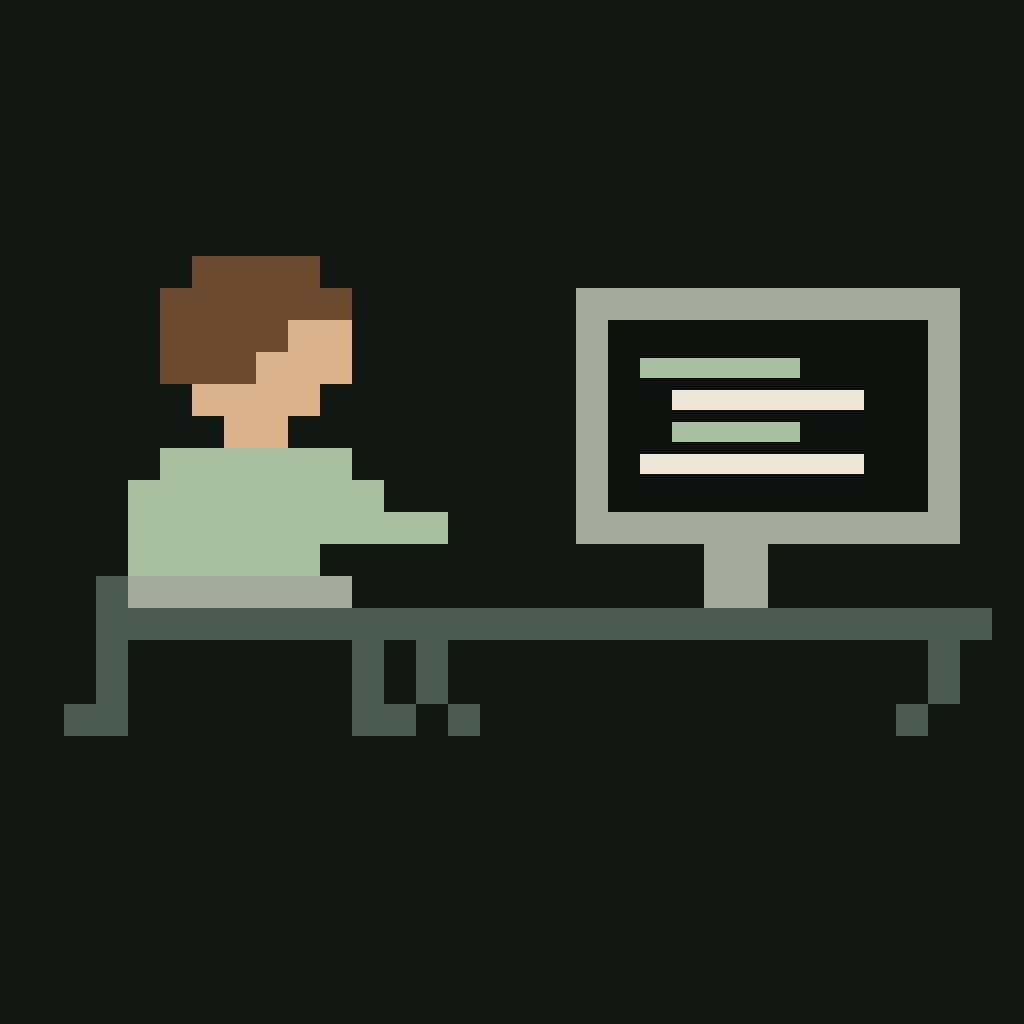
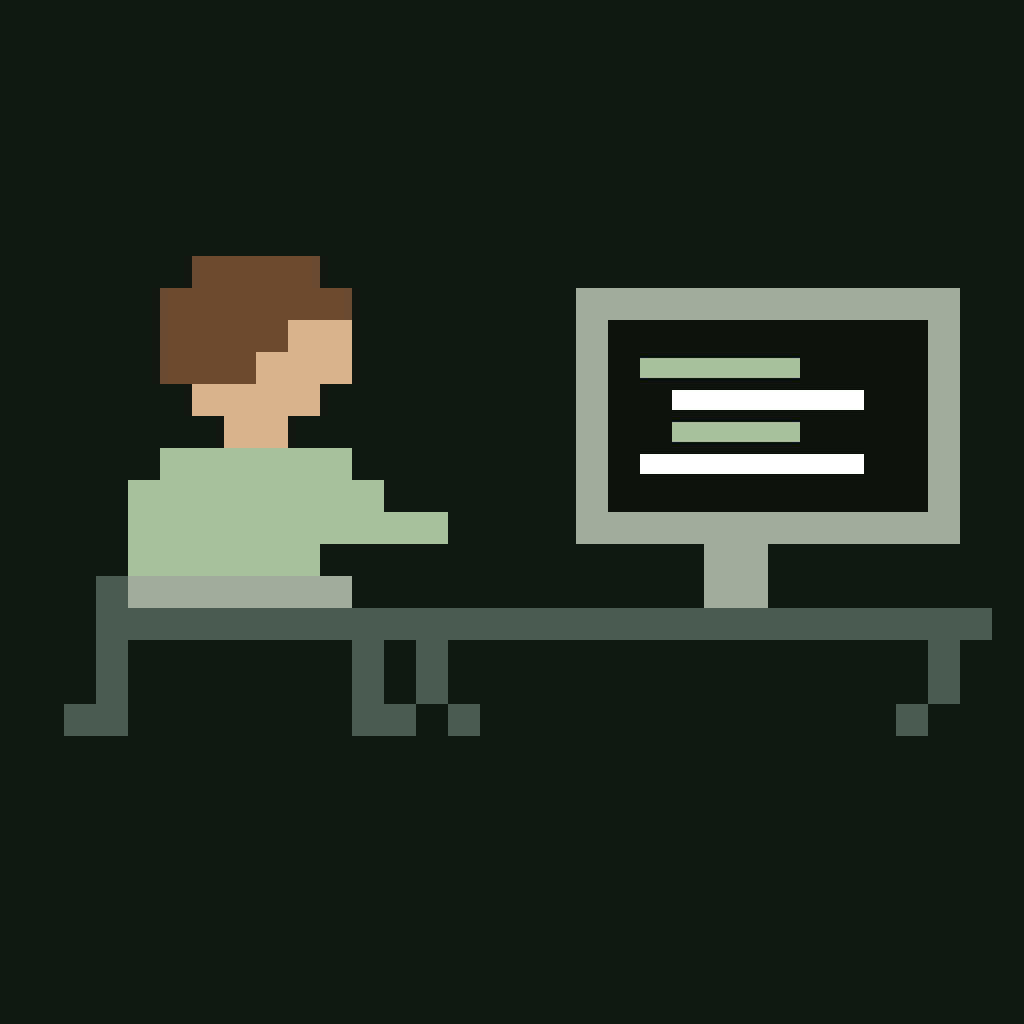
Swap cream for white
Light mode: white page and cards, soft neutral gray for chips and
borders, white text on sage buttons. Dark mode: white text instead of
cream. Same change in the badge, embed card, app icon, browser color and
the mobile app (theme, avatar tone, splash, regenerated icons). Sage
green stays as it is.

Claude-Session: https://claude.ai/code/session_01JmAZYzBPk9HgA47kEKZ3QW

Changed region(s): [[0.625, 0.4375, 0.8438, 0.4688], [0.6562, 0.375, 0.8438, 0.4062]]

diff --git a/src/lib/pixel-icon.ts b/src/lib/pixel-icon.ts
@@ -2,7 +2,7 @@
 // Apple touch icon). Must stay identical to src/app/icon.svg; the unit tests
 // check it.
 export const PIXEL_ICON_SVG =
-  '<svg xmlns="http://www.w3.org/2000/svg" viewBox="0 0 32 32" shape-rendering="crispEdges"><rect width="32" height="32" rx="6" fill="#121814"/><rect x="6" y="8" width="4" height="1" fill="#6b4a2f"/><rect x="5" y="9" width="6" height="1" fill="#6b4a2f"/><rect x="18" y="9" width="12" height="1" fill="#a3ab9d"/><rect x="5" y="10" width="4" height="1" fill="#6b4a2f"/><rect x="9" y="10" width="2" height="1" fill="#d9b38c"/><rect x="18" y="10" width="1" height="1" fill="#a3ab9d"/><rect x="19" y="10" width="10" height="1" fill="#0d120f"/><rect x="29" y="10" width="1" height="1" fill="#a3ab9d"/><rect x="5" y="11" width="3" height="1" fill="#6b4a2f"/><rect x="8" y="11" width="3" height="1" fill="#d9b38c"/><rect x="18" y="11" width="1" height="1" fill="#a3ab9d"/><rect x="19" y="11" width="10" height="1" fill="#0d120f"/><rect x="29" y="11" width="1" height="1" fill="#a3ab9d"/><rect x="6" y="12" width="4" height="1" fill="#d9b38c"/><rect x="18" y="12" width="1" height="1" fill="#a3ab9d"/><rect x="19" y="12" width="10" height="1" fill="#0d120f"/><rect x="29" y="12" width="1" height="1" fill="#a3ab9d"/><rect x="7" y="13" width="2" height="1" fill="#d9b38c"/><rect x="18" y="13" width="1" height="1" fill="#a3ab9d"/><rect x="19" y="13" width="10" height="1" fill="#0d120f"/><rect x="29" y="13" width="1" height="1" fill="#a3ab9d"/><rect x="5" y="14" width="6" height="1" fill="#a8c09e"/><rect x="18" y="14" width="1" height="1" fill="#a3ab9d"/><rect x="19" y="14" width="10" height="1" fill="#0d120f"/><rect x="29" y="14" width="1" height="1" fill="#a3ab9d"/><rect x="4" y="15" width="8" height="1" fill="#a8c09e"/><rect x="18" y="15" width="1" height="1" fill="#a3ab9d"/><rect x="19" y="15" width="10" height="1" fill="#0d120f"/><rect x="29" y="15" width="1" height="1" fill="#a3ab9d"/><rect x="4" y="16" width="10" height="1" fill="#a8c09e"/><rect x="18" y="16" width="12" height="1" fill="#a3ab9d"/><rect x="4" y="17" width="6" height="1" fill="#a8c09e"/><rect x="22" y="17" width="2" height="1" fill="#a3ab9d"/><rect x="3" y="18" width="1" height="1" fill="#4a5a50"/><rect x="4" y="18" width="7" height="1" fill="#a3ab9d"/><rect x="22" y="18" width="2" height="1" fill="#a3ab9d"/><rect x="3" y="19" width="9" height="1" fill="#4a5a50"/><rect x="12" y="19" width="19" height="1" fill="#4a5a50"/><rect x="3" y="20" width="1" height="1" fill="#4a5a50"/><rect x="11" y="20" width="1" height="1" fill="#4a5a50"/><rect x="13" y="20" width="1" height="1" fill="#4a5a50"/><rect x="29" y="20" width="1" height="1" fill="#4a5a50"/><rect x="3" y="21" width="1" height="1" fill="#4a5a50"/><rect x="11" y="21" width="1" height="1" fill="#4a5a50"/><rect x="13" y="21" width="1" height="1" fill="#4a5a50"/><rect x="29" y="21" width="1" height="1" fill="#4a5a50"/><rect x="2" y="22" width="2" height="1" fill="#4a5a50"/><rect x="11" y="22" width="2" height="1" fill="#4a5a50"/><rect x="14" y="22" width="1" height="1" fill="#4a5a50"/><rect x="28" y="22" width="1" height="1" fill="#4a5a50"/><rect x="20" y="11.2" width="5" height="0.6" fill="#a8c09e"/><rect x="21" y="12.2" width="6" height="0.6" fill="#efe8d8"/><rect x="21" y="13.2" width="4" height="0.6" fill="#a8c09e"/><rect x="20" y="14.2" width="7" height="0.6" fill="#efe8d8"/></svg>';
+  '<svg xmlns="http://www.w3.org/2000/svg" viewBox="0 0 32 32" shape-rendering="crispEdges"><rect width="32" height="32" rx="6" fill="#121814"/><rect x="6" y="8" width="4" height="1" fill="#6b4a2f"/><rect x="5" y="9" width="6" height="1" fill="#6b4a2f"/><rect x="18" y="9" width="12" height="1" fill="#a3ab9d"/><rect x="5" y="10" width="4" height="1" fill="#6b4a2f"/><rect x="9" y="10" width="2" height="1" fill="#d9b38c"/><rect x="18" y="10" width="1" height="1" fill="#a3ab9d"/><rect x="19" y="10" width="10" height="1" fill="#0d120f"/><rect x="29" y="10" width="1" height="1" fill="#a3ab9d"/><rect x="5" y="11" width="3" height="1" fill="#6b4a2f"/><rect x="8" y="11" width="3" height="1" fill="#d9b38c"/><rect x="18" y="11" width="1" height="1" fill="#a3ab9d"/><rect x="19" y="11" width="10" height="1" fill="#0d120f"/><rect x="29" y="11" width="1" height="1" fill="#a3ab9d"/><rect x="6" y="12" width="4" height="1" fill="#d9b38c"/><rect x="18" y="12" width="1" height="1" fill="#a3ab9d"/><rect x="19" y="12" width="10" height="1" fill="#0d120f"/><rect x="29" y="12" width="1" height="1" fill="#a3ab9d"/><rect x="7" y="13" width="2" height="1" fill="#d9b38c"/><rect x="18" y="13" width="1" height="1" fill="#a3ab9d"/><rect x="19" y="13" width="10" height="1" fill="#0d120f"/><rect x="29" y="13" width="1" height="1" fill="#a3ab9d"/><rect x="5" y="14" width="6" height="1" fill="#a8c09e"/><rect x="18" y="14" width="1" height="1" fill="#a3ab9d"/><rect x="19" y="14" width="10" height="1" fill="#0d120f"/><rect x="29" y="14" width="1" height="1" fill="#a3ab9d"/><rect x="4" y="15" width="8" height="1" fill="#a8c09e"/><rect x="18" y="15" width="1" height="1" fill="#a3ab9d"/><rect x="19" y="15" width="10" height="1" fill="#0d120f"/><rect x="29" y="15" width="1" height="1" fill="#a3ab9d"/><rect x="4" y="16" width="10" height="1" fill="#a8c09e"/><rect x="18" y="16" width="12" height="1" fill="#a3ab9d"/><rect x="4" y="17" width="6" height="1" fill="#a8c09e"/><rect x="22" y="17" width="2" height="1" fill="#a3ab9d"/><rect x="3" y="18" width="1" height="1" fill="#4a5a50"/><rect x="4" y="18" width="7" height="1" fill="#a3ab9d"/><rect x="22" y="18" width="2" height="1" fill="#a3ab9d"/><rect x="3" y="19" width="9" height="1" fill="#4a5a50"/><rect x="12" y="19" width="19" height="1" fill="#4a5a50"/><rect x="3" y="20" width="1" height="1" fill="#4a5a50"/><rect x="11" y="20" width="1" height="1" fill="#4a5a50"/><rect x="13" y="20" width="1" height="1" fill="#4a5a50"/><rect x="29" y="20" width="1" height="1" fill="#4a5a50"/><rect x="3" y="21" width="1" height="1" fill="#4a5a50"/><rect x="11" y="21" width="1" height="1" fill="#4a5a50"/><rect x="13" y="21" width="1" height="1" fill="#4a5a50"/><rect x="29" y="21" width="1" height="1" fill="#4a5a50"/><rect x="2" y="22" width="2" height="1" fill="#4a5a50"/><rect x="11" y="22" width="2" height="1" fill="#4a5a50"/><rect x="14" y="22" width="1" height="1" fill="#4a5a50"/><rect x="28" y="22" width="1" height="1" fill="#4a5a50"/><rect x="20" y="11.2" width="5" height="0.6" fill="#a8c09e"/><rect x="21" y="12.2" width="6" height="0.6" fill="#ffffff"/><rect x="21" y="13.2" width="4" height="0.6" fill="#a8c09e"/><rect x="20" y="14.2" width="7" height="0.6" fill="#ffffff"/></svg>';
 
 // Full-bleed version for home screens, which add their own rounded corners.
 export const PIXEL_ICON_SQUARE_SVG = PIXEL_ICON_SVG.replace(' rx="6"', "");

diff --git a/src/app/globals.css b/src/app/globals.css
@@ -2,8 +2,8 @@
 
 /*
  * Method V look: drop culture meets the late-night code editor, in sage and
- * cream. Two themes: dark (deep green-black, cream ink, soft sage) and light
- * (cream paper, green-black ink, deeper sage so text and buttons stay
+ * white. Two themes: dark (deep green-black, white ink, soft sage) and light
+ * (white paper, green-black ink, deeper sage so text and buttons stay
  * readable). Video and poster areas stay dark in both (`media-dark`).
  * Big Shoulders (condensed poster caps) for display, Schibsted Grotesk for
  * reading, Martian Mono for numbers, timers, credits and tags.
@@ -17,7 +17,7 @@
   --color-surface: #19211b;
   --color-surface-2: #222c25;
   --color-line: #34413a;
-  --color-ink: #efe8d8;
+  --color-ink: #ffffff;
   --color-muted: #a3ab9d;
   --color-accent: #a8c09e;
   --color-accent-ink: #112014;
@@ -64,14 +64,14 @@
 @media (prefers-color-scheme: light) {
   :root:not([data-theme="dark"]) {
     color-scheme: light;
-    --color-bg: #f3eee2;
-    --color-surface: #fbf8f1;
-    --color-surface-2: #e9e2d2;
-    --color-line: #d6cdb9;
+    --color-bg: #ffffff;
+    --color-surface: #ffffff;
+    --color-surface-2: #eef1ee;
+    --color-line: #dde2dd;
     --color-ink: #1e2a21;
     --color-muted: #5c6757;
     --color-accent: #4a6a4e;
-    --color-accent-ink: #f7f2e7;
+    --color-accent-ink: #ffffff;
     --color-heart: #c4533f;
     --color-danger: #b2412f;
     --accent-edge: #2c4330;
@@ -82,14 +82,14 @@
 
 :root[data-theme="light"] {
   color-scheme: light;
-  --color-bg: #f3eee2;
-  --color-surface: #fbf8f1;
-  --color-surface-2: #e9e2d2;
-  --color-line: #d6cdb9;
+  --color-bg: #ffffff;
+  --color-surface: #ffffff;
+  --color-surface-2: #eef1ee;
+  --color-line: #dde2dd;
   --color-ink: #1e2a21;
   --color-muted: #5c6757;
   --color-accent: #4a6a4e;
-  --color-accent-ink: #f7f2e7;
+  --color-accent-ink: #ffffff;
   --color-heart: #c4533f;
   --color-danger: #b2412f;
   --accent-edge: #2c4330;
@@ -104,7 +104,7 @@
   --color-surface: #19211b;
   --color-surface-2: #222c25;
   --color-line: #34413a;
-  --color-ink: #efe8d8;
+  --color-ink: #ffffff;
   --color-muted: #a3ab9d;
   --color-accent: #a8c09e;
   --color-accent-ink: #112014;

diff --git a/src/app/embed/[slug]/route.ts b/src/app/embed/[slug]/route.ts
@@ -9,8 +9,8 @@ import { formatCount } from "@/lib/format";
 // Drop's poster. "Try it" goes through /try with ?via=embed so it's counted.
 
 const THEMES = {
-  dark: { bg: "#121814", surface: "#19211b", ink: "#efe8d8", muted: "#a3ab9d", accent: "#a8c09e", accentInk: "#112014", line: "#34413a" },
-  light: { bg: "#fbf8f1", surface: "#f3eee2", ink: "#1e2a21", muted: "#5c6757", accent: "#4a6a4e", accentInk: "#f7f2e7", line: "#d6cdb9" },
+  dark: { bg: "#121814", surface: "#19211b", ink: "#ffffff", muted: "#a3ab9d", accent: "#a8c09e", accentInk: "#112014", line: "#34413a" },
+  light: { bg: "#ffffff", surface: "#ffffff", ink: "#1e2a21", muted: "#5c6757", accent: "#4a6a4e", accentInk: "#ffffff", line: "#dde2dd" },
 };
 
 function esc(s: string) {
@@ -40,7 +40,7 @@ html,body{height:100%}
 body{background:${t.bg};color:${t.ink};font:14px/1.4 -apple-system,BlinkMacSystemFont,"Segoe UI",Helvetica,Arial,sans-serif}
 .card{display:flex;height:100%;min-height:150px;border:1px solid ${t.line};border-radius:12px;overflow:hidden;background:${t.surface}}
 .media{flex:0 0 34%;max-width:170px;background:#121814 ${poster ? `url("${esc(poster)}") center/cover` : `repeating-linear-gradient(135deg,#19211b 0 10px,#222c25 10px 20px)`};display:flex;align-items:flex-end;padding:10px}
-.media span{font:700 20px/1 Impact,"Arial Narrow",sans-serif;text-transform:uppercase;color:#efe8d8;${poster ? "display:none" : ""}}
+.media span{font:700 20px/1 Impact,"Arial Narrow",sans-serif;text-transform:uppercase;color:#ffffff;${poster ? "display:none" : ""}}
 .body{flex:1;min-width:0;padding:14px 16px;display:flex;flex-direction:column;gap:6px}
 .kicker{font:600 10px/1 ui-monospace,Menlo,monospace;letter-spacing:.12em;text-transform:uppercase;color:${t.muted}}
 h1{font:700 26px/1 Impact,"Arial Narrow Bold","Arial Narrow",sans-serif;text-transform:uppercase;letter-spacing:.01em;white-space:nowrap;overflow:hidden;text-overflow:ellipsis}

diff --git a/mobile/src/theme.ts b/mobile/src/theme.ts
@@ -1,6 +1,6 @@
 import { useColorScheme } from "react-native";
 
-// Same sage-and-cream palette as the website (src/app/globals.css), dark and
+// Same sage-and-white palette as the website (src/app/globals.css), dark and
 // light. The app follows the phone's setting.
 export const palettes = {
   dark: {
@@ -8,7 +8,7 @@ export const palettes = {
     surface: "#19211b",
     surface2: "#222c25",
     line: "#34413a",
-    ink: "#efe8d8",
+    ink: "#ffffff",
     muted: "#a3ab9d",
     accent: "#a8c09e",
     accentInk: "#112014",
@@ -17,14 +17,14 @@ export const palettes = {
     danger: "#f08c78",
   },
   light: {
-    bg: "#f3eee2",
-    surface: "#fbf8f1",
-    surface2: "#e9e2d2",
-    line: "#d6cdb9",
+    bg: "#ffffff",
+    surface: "#ffffff",
+    surface2: "#eef1ee",
+    line: "#dde2dd",
     ink: "#1e2a21",
     muted: "#5c6757",
     accent: "#4a6a4e",
-    accentInk: "#f7f2e7",
+    accentInk: "#ffffff",
     accentEdge: "#2f4833",
     heart: "#c4533f",
     danger: "#b2412f",

diff --git a/src/app/badge/[slug]/route.ts b/src/app/badge/[slug]/route.ts
@@ -9,8 +9,8 @@ import { createClient } from "@/lib/supabase/server";
 // Plain SVG with system fonts so it renders anywhere without loading ours.
 
 const THEMES = {
-  dark: { bg: "#121814", ink: "#efe8d8", muted: "#a3ab9d", accent: "#a8c09e", accentInk: "#112014", line: "#34413a" },
-  light: { bg: "#fbf8f1", ink: "#1e2a21", muted: "#5c6757", accent: "#4a6a4e", accentInk: "#f7f2e7", line: "#d6cdb9" },
+  dark: { bg: "#121814", ink: "#ffffff", muted: "#a3ab9d", accent: "#a8c09e", accentInk: "#112014", line: "#34413a" },
+  light: { bg: "#ffffff", ink: "#1e2a21", muted: "#5c6757", accent: "#4a6a4e", accentInk: "#ffffff", line: "#dde2dd" },
 };
 
 function esc(s: string) {

diff --git a/src/components/Avatar.tsx b/src/components/Avatar.tsx
@@ -1,7 +1,7 @@
 // A colored circle with the builder's first letter. Photo uploads come later.
 
-// Soft tones that sit with sage and cream in both themes; the letter is always dark.
-const COLORS = ["#a8c09e", "#e6dcc4", "#d9b38c", "#9fc3cf", "#c7b6d6", "#e2a597", "#c3cf94"];
+// Soft tones that sit with sage and white in both themes; the letter is always dark.
+const COLORS = ["#a8c09e", "#d7dfd9", "#d9b38c", "#9fc3cf", "#c7b6d6", "#e2a597", "#c3cf94"];
 
 function colorFor(username: string): string {
   let hash = 0;

diff --git a/mobile/src/components/ui.tsx b/mobile/src/components/ui.tsx
@@ -111,7 +111,7 @@ export function Button({
   );
 }
 
-const AVATAR_COLORS = ["#a8c09e", "#e6dcc4", "#d9b38c", "#9fc3cf", "#c7b6d6", "#e2a597", "#c3cf94"];
+const AVATAR_COLORS = ["#a8c09e", "#d7dfd9", "#d9b38c", "#9fc3cf", "#c7b6d6", "#e2a597", "#c3cf94"];
 
 // Same colors and letters as the website's avatars.
 export function Avatar({ username, name, size = 40 }: { username: string; name?: string; size?: number }) {

diff --git a/src/app/layout.tsx b/src/app/layout.tsx
@@ -32,7 +32,7 @@ export const viewport: Viewport = {
   // Draw under the home indicator; the tab bar and header pad themselves with safe-area insets.
   viewportFit: "cover",
   themeColor: [
-    { media: "(prefers-color-scheme: light)", color: "#f3eee2" },
+    { media: "(prefers-color-scheme: light)", color: "#ffffff" },
     { media: "(prefers-color-scheme: dark)", color: "#121814" },
   ],
 };

diff --git a/AGENTS.md b/AGENTS.md
@@ -30,4 +30,4 @@ Read `PLAN.md` for the product plan and `README.md` for setup and how the code i
 - Sign-in: email + password (`passwordAuth`), emailed link (`signIn`), and optional providers. `MIN_PASSWORD` in constants applies to both the website and the app.
 - After adding a migration, run `npm run db:bundle` to regenerate `supabase/setup.sql` (the one-paste setup for new projects). The unit tests fail if it's stale. `/api/health` is the deploy setup check: yes/no plus a fix for each item, and it must never include key values.
 - Before committing: `npm run lint`, `npx tsc --noEmit`, `npm run test:unit`, `npm run test:db`, and `npm run test:ui` against a running build.
-- Design: "drop culture meets the late-night code editor" in sage and cream, mobile-app first, with light and dark themes. Tokens live in `@theme` in `src/app/globals.css` (dark values) with the light values below it; use the tokens, never raw colors. The theme follows the phone unless the toggle (`ThemeToggle`) set `data-theme` via the `theme` cookie. Anything drawn on video or posters goes inside `media-dark` so it stays dark in light mode. Fonts: `display` utility (Big Shoulders, uppercase) for headlines, Schibsted Grotesk for text, Martian Mono (`font-mono`, `tag`) for numbers, timers, credits and labels. Motion is limited to the `rise` entrance (set `--i` for stagger), the feed caption reveal, the like pop and the `PixelCoder` mascot (header logo, footer masthead, loading screens; `pc-*` rules in globals.css), and is switched off under `prefers-reduced-motion`. `loading.tsx` lives only in `drops/`, `browse/` and `test/`: a loading boundary makes pages stream, which turns `notFound()` into a 200, so keep it off app and profile pages. Phones get the bottom tab bar (`MobileTabs`, height `--tabbar`); keep tap targets ≥ 40px.
+- Design: "drop culture meets the late-night code editor" in sage and white, mobile-app first, with light and dark themes. Tokens live in `@theme` in `src/app/globals.css` (dark values) with the light values below it; use the tokens, never raw colors. The theme follows the phone unless the toggle (`ThemeToggle`) set `data-theme` via the `theme` cookie. Anything drawn on video or posters goes inside `media-dark` so it stays dark in light mode. Fonts: `display` utility (Big Shoulders, uppercase) for headlines, Schibsted Grotesk for text, Martian Mono (`font-mono`, `tag`) for numbers, timers, credits and labels. Motion is limited to the `rise` entrance (set `--i` for stagger), the feed caption reveal, the like pop and the `PixelCoder` mascot (header logo, footer masthead, loading screens; `pc-*` rules in globals.css), and is switched off under `prefers-reduced-motion`. `loading.tsx` lives only in `drops/`, `browse/` and `test/`: a loading boundary makes pages stream, which turns `notFound()` into a 200, so keep it off app and profile pages. Phones get the bottom tab bar (`MobileTabs`, height `--tabbar`); keep tap targets ≥ 40px.
